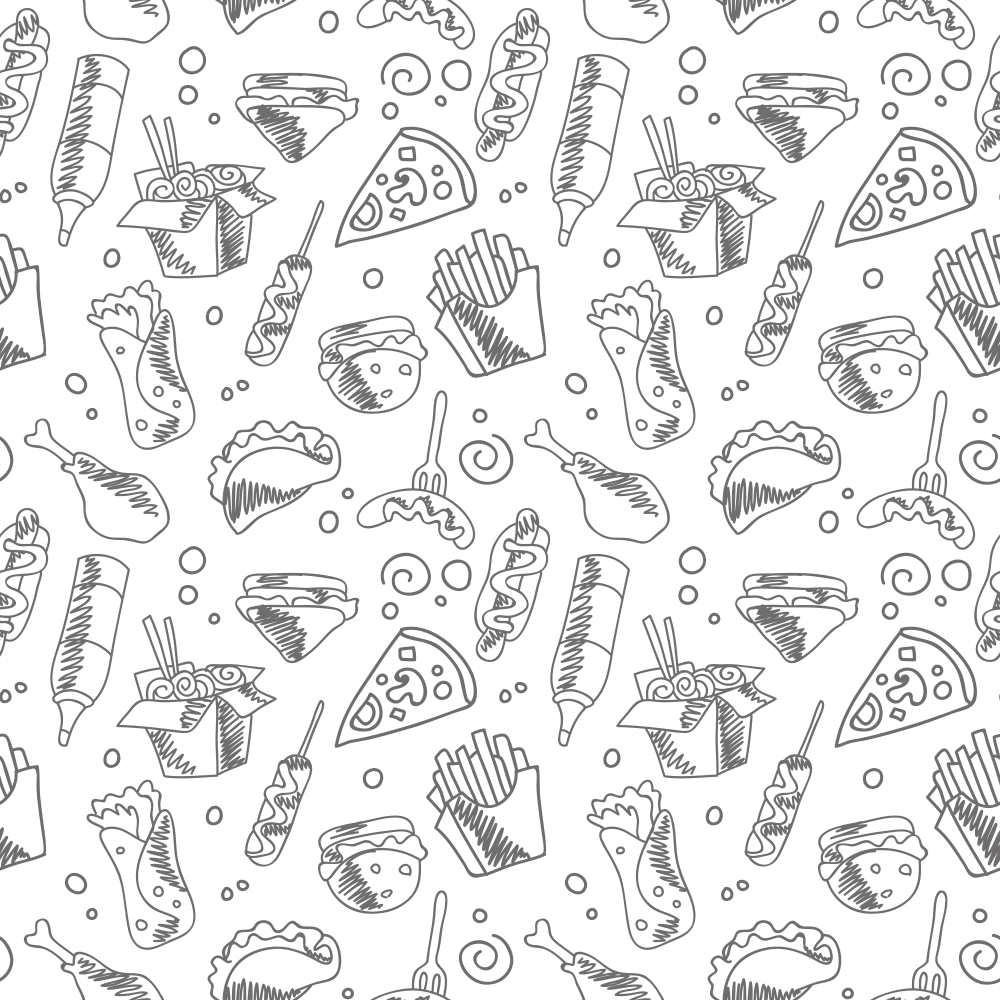
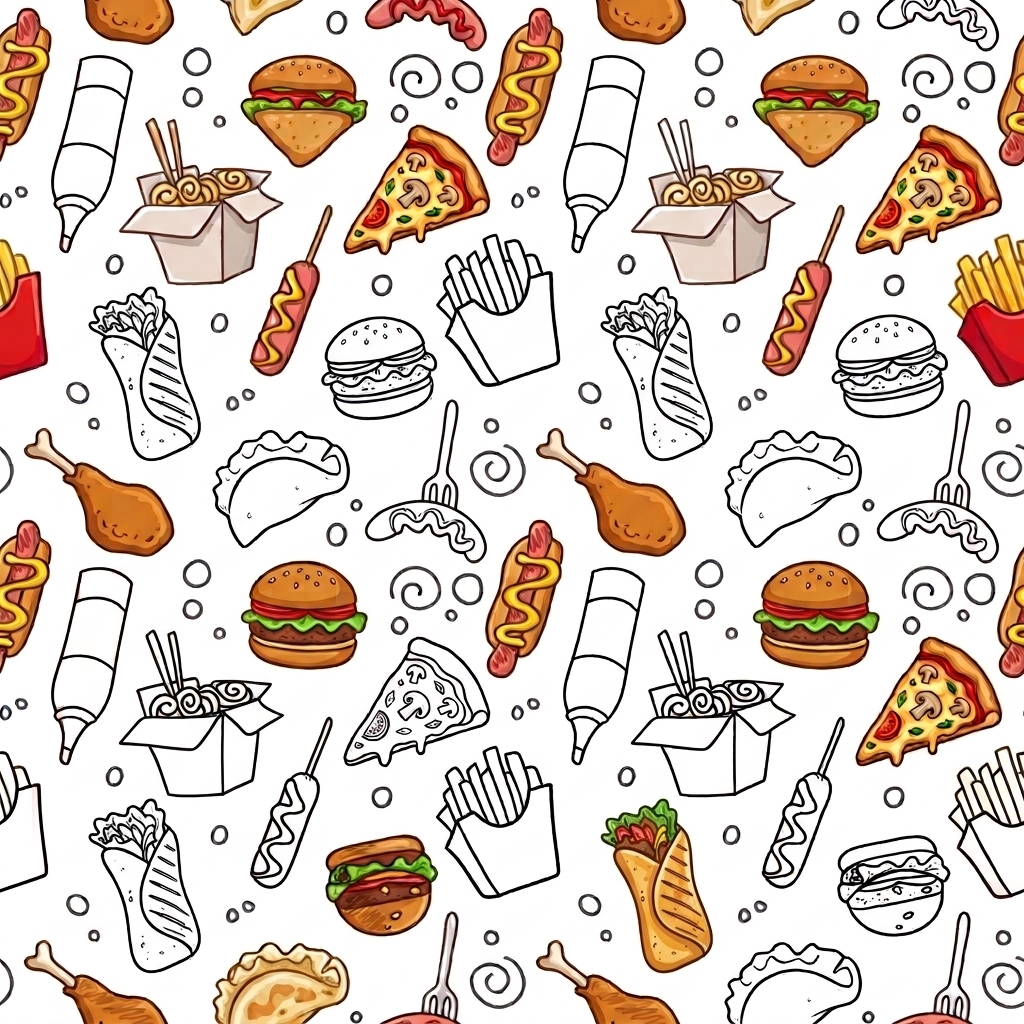
UX: details

diff --git a/src/features/explore/components/CardPlace.jsx b/src/features/explore/components/CardPlace.jsx
@@ -69,12 +69,12 @@ const CardPlace = ({ data, userLocation, loadBusinessMenu }) => {
           "&::before": { content: '""', position: "absolute", inset: 0, bgcolor: "rgba(35,31,28,.12)" },
         }}
       >
-        <Box sx={{ position: "relative", zIndex: 1, p: 1.2 }}>
+        <Box sx={{ position: "relative", zIndex: 1, p: .3 }}>
           <Box
             sx={{
               borderRadius: "8px",
               overflow: "hidden",
-              bgcolor: "rgba(254,253,251,.94)",
+              bgcolor: "rgba(254,253,251,.80)",
               border: "1px solid rgba(56,50,44,.12)",
               boxShadow: "0 1px 4px rgba(33,27,24,.05)",
             }}
@@ -82,7 +82,7 @@ const CardPlace = ({ data, userLocation, loadBusinessMenu }) => {
             <Box onClick={expandCard} sx={{ cursor: "pointer", px: 2, pt: 1.8, pb: 1.45 }}>
               <Stack direction="row" justifyContent="space-between" alignItems="flex-start" spacing={1.4}>
                 <Stack direction="row" spacing={1.25} alignItems="center" minWidth={0}>
-                  <Avatar src={logoUrl} sx={{ width: 52, height: 52, bgcolor: "background.paper", border: "1px solid rgba(0,0,0,.07)", boxShadow: "0 6px 16px rgba(0,0,0,.08)" }}>{business.name?.charAt(0)}</Avatar>
+                  <Avatar src={logoUrl} sx={{ width: 56, height: 56, bgcolor: "background.paper", border: "1px solid rgba(0,0,0,.07)", boxShadow: "0 6px 16px rgba(0,0,0,.08)" }}>{business.name?.charAt(0)}</Avatar>
                   <Box minWidth={0}>
                     <Typography noWrap sx={{ fontSize: "1.12rem", fontWeight: 700, lineHeight: 1.08, letterSpacing: "-.025em" }}>{business.name || "Negocio"}</Typography>
                     <Stack direction="row" spacing={.7} alignItems="center" sx={{ mt: .55, color: "text.secondary" }}>
@@ -91,24 +91,24 @@ const CardPlace = ({ data, userLocation, loadBusinessMenu }) => {
                   </Box>
                 </Stack>
                 <Stack direction="row" spacing={.65} alignItems="center">
-                  <Chip size="small" label={business.open ? "Abierto" : "Cerrado"} sx={{ height: 26, fontWeight: 600, fontSize: ".66rem", bgcolor: business.open ? "rgba(95,120,100,.11)" : "rgba(0,0,0,.07)", color: business.open ? "success.dark" : "text.secondary" }} />
-                  <IconButton size="small" onClick={(event) => { event.stopPropagation(); setScheduleOpen(true); }} sx={{ width: 30, height: 30, bgcolor: "rgba(255,255,255,.7)", border: "1px solid rgba(0,0,0,.05)" }}><AccessTimeRounded sx={{ fontSize: 16 }} /></IconButton>
+                  <Chip size="small" label={business.open ? "Abierto" : "Cerrado"} sx={{ height: 26, borderRadius:"15px" , fontWeight: 600, fontSize: ".66rem", bgcolor: business.open ? "rgba(95,120,100,.11)" : "rgba(0,0,0,.07)", color: business.open ? "success.dark" : "text.secondary" }} />
+                  <IconButton size="small" onClick={(event) => { event.stopPropagation(); setScheduleOpen(true); }} sx={{ width: 30, height: 30, bgcolor: "rgba(255,255,255,0)", border: "1px solid rgba(0,0,0,.05)" }}><AccessTimeRounded sx={{ fontSize: 16 }} /></IconButton>
                 </Stack>
               </Stack>
 
+             
+              <Stack direction="row" justifyContent="space-between" alignItems="center" sx={{ mt: 1.25 }}>
+                
               {(foodTags.length > 0 || distance || hasServiceTag) && (
                 <Stack direction="row" spacing={.65} flexWrap="wrap" useFlexGap sx={{ mt: 1.35 }}>
                   {foodTags.map((label) => (
-                  <Chip key={label} size="small" label={label} sx={{ height: 25, fontSize: ".67rem", fontWeight: 600, bgcolor: "rgba(198,90,80,.08)", color: "primary.dark", border: "1px solid rgba(198,90,80,.16)" }} />
+                  <Chip key={label} size="small" label={label} sx={{ height: 25, borderRadius:"15px", fontSize: ".67rem", fontWeight: 600, bgcolor: "rgba(198,90,80,.22)", color: "primary.dark", border: "1px solid rgba(198,90,80,.16)" }} />
                   ))}
-                  {distance && <Chip size="small" icon={<PlaceRounded />} label={distance} sx={{ height: 25, fontSize: ".67rem", fontWeight: 600, bgcolor: "rgba(102,115,106,.09)", color: "secondary.dark", border: "1px solid rgba(102,115,106,.18)", "& .MuiChip-icon": { color: "secondary.main" } }} />}
-                  {hasServiceTag && <Chip size="small" icon={<DeliveryDiningRounded />} label="Delivery" sx={{ height: 25, fontSize: ".67rem", fontWeight: 600, bgcolor: "rgba(198,90,80,.08)", color: "primary.dark", border: "1px solid rgba(198,90,80,.16)", "& .MuiChip-icon": { color: "primary.main" } }} />}
+                  {distance && <Chip size="small" icon={<PlaceRounded />} label={distance} sx={{ height: 25, borderRadius:"15px", fontSize: ".67rem", fontWeight: 600, bgcolor: "rgba(102,115,106,.22)", color: "secondary.dark", border: "1px solid rgba(102,115,106,.18)", "& .MuiChip-icon": { color: "secondary.main" } }} />}
+                  {hasServiceTag && <Chip size="small" icon={<DeliveryDiningRounded />} label="Delivery" sx={{ height: 25, borderRadius:"15px",  fontSize: ".67rem", fontWeight: 600, bgcolor: "rgba(198,90,80,.22)", color: "primary.dark", border: "1px solid rgba(198,90,80,.16)", "& .MuiChip-icon": { color: "primary.main" } }} />}
                 </Stack>
               )}
-
-              <Stack direction="row" justifyContent="space-between" alignItems="center" sx={{ mt: 1.25 }}>
-                <Typography variant="caption" color="text.secondary">Todo lo esencial, sin salir de la tarjeta</Typography>
-                <Stack direction="row" alignItems="center"><Typography variant="caption" fontWeight={600}>{expanded ? "Ocultar" : "Explorar"}</Typography><KeyboardArrowDownRounded sx={{ fontSize: 19, transform: expanded ? "rotate(180deg)" : "none", transition: ".2s" }} /></Stack>
+                <Stack direction="row" alignItems="center"><Typography variant="caption" fontWeight={600}>{expanded ? "" : ""}</Typography><KeyboardArrowDownRounded sx={{ fontSize: 19, transform: expanded ? "rotate(180deg)" : "none", transition: ".2s" }} /></Stack>
               </Stack>
             </Box>
 

diff --git a/src/app/navigation/Navbar.jsx b/src/app/navigation/Navbar.jsx
@@ -57,7 +57,7 @@ export default function Navbar() {
 
     // Todo usuario autenticado puede comprar, sin importar si también es owner.
     items.push({ title: "Mi pedido", icon: <ReceiptLong />, link: "orden", cartBadge: true });
-    items.push({ title: "Órdenes", icon: <ShoppingBag />, link: "mis-ordenes" });
+   // items.push({ title: "Órdenes", icon: <ShoppingBag />, link: "mis-ordenes" });
 
     // Owner es una capacidad adicional, no un rol excluyente del flujo cliente.
     if (owner) {
@@ -114,7 +114,6 @@ export default function Navbar() {
                   <Divider />
                   <MenuItem onClick={() => goFromMenu("/perfil")}><ListItemIcon><Person fontSize="small" /></ListItemIcon><ListItemText>Mi Perfil</ListItemText></MenuItem>
                   <MenuItem onClick={() => goFromMenu("/orden")}><ListItemIcon><ReceiptLong fontSize="small" /></ListItemIcon><ListItemText>Mi pedido</ListItemText></MenuItem>
-                  <MenuItem onClick={() => goFromMenu("/mis-ordenes")}><ListItemIcon><ShoppingBag fontSize="small" /></ListItemIcon><ListItemText>Mis Órdenes</ListItemText></MenuItem>
                   {owner && <MenuItem onClick={() => goFromMenu("/owner")}><ListItemIcon><Dashboard fontSize="small" /></ListItemIcon><ListItemText>Panel de Negocio</ListItemText></MenuItem>}
                   <Divider />
                   <MenuItem onClick={handleLogout} sx={{ color: "error.main" }}><ListItemIcon><Logout fontSize="small" color="error" /></ListItemIcon><ListItemText>Cerrar Sesión</ListItemText></MenuItem>

diff --git a/src/features/profile/components/ProfileActions.jsx b/src/features/profile/components/ProfileActions.jsx
@@ -8,8 +8,6 @@ export default function ProfileActions({ user, onNavigate, onLogoutRequest }) {
     <Paper elevation={0} sx={{ p: { xs: 2, sm: 3 }, borderRadius: "8px", border: "1px solid", borderColor: "divider" }}>
       <Typography variant="h6" sx={{ fontWeight: 600, mb: 2 }}>Acciones Rápidas</Typography>
       <Stack spacing={1.25}>
-        <Button variant="outlined" startIcon={<ShoppingBag />} fullWidth onClick={() => onNavigate("/mis-ordenes")} sx={{ justifyContent: "flex-start", py: 1.5 }}>Mis Órdenes</Button>
-
         {hasBusinessAccess ? (
           <Button variant="outlined" startIcon={<Store />} fullWidth onClick={() => onNavigate("/owner")} sx={{ justifyContent: "flex-start", py: 1.5 }}>Panel de Negocio</Button>
         ) : (
@@ -25,7 +23,7 @@ export default function ProfileActions({ user, onNavigate, onLogoutRequest }) {
           </Button>
         )}
 
-        <Button variant="outlined" startIcon={<GroupAdd />} fullWidth onClick={() => onNavigate("/business-invitations")} sx={{ justifyContent: "flex-start", py: 1.5 }}>Unirme con un código</Button>
+        <Button variant="outlined" startIcon={<GroupAdd />} fullWidth onClick={() => onNavigate("/business-invitations")} sx={{ justifyContent: "flex-start", py: 1.5 }}>Unirme con un código (Socio)</Button>
 
         <Button variant="outlined" color="error" startIcon={<Logout />} fullWidth onClick={onLogoutRequest} sx={{ justifyContent: "flex-start", py: 1.5 }}>Cerrar Sesión</Button>
       </Stack>

diff --git a/src/features/explore/components/CardPlaceFront.jsx b/src/features/explore/components/CardPlaceFront.jsx
@@ -10,9 +10,9 @@ import { StyledFront } from "./CardPlaceStyled";
 
 const ACTIONS = [
   { key: "menu", label: "Menú", helper: "Qué pedir", icon: RestaurantMenuRounded, color: "#8F3E38", tint: "rgba(198,90,80,.09)" },
-  { key: "location", label: "Llegar", helper: "Ubicación", icon: NearMeRounded, color: "#465048", tint: "rgba(102,115,106,.09)" },
+  { key: "location", label: "Llegar", helper: "Ubicación", icon: NearMeRounded, color: "#0d70e8", tint: "rgba(102,115,106,.09)" },
   { key: "photo", label: "Fotos", helper: "Conócelo", icon: PhotoLibraryRounded, color: "#465048", tint: "rgba(102,115,106,.09)" },
-  { key: "review", label: "Reseñas", helper: "Opiniones", icon: ReviewsRounded, color: "#8F3E38", tint: "rgba(198,90,80,.09)" },
+  { key: "review", label: "Reseñas", helper: "Opiniones", icon: ReviewsRounded, color: "#6935a4", tint: "rgba(198,90,80,.09)" },
 ];
 
 const CardPlaceFront = ({ flipped, onMovement, data }) => (
@@ -42,7 +42,7 @@ const CardPlaceFront = ({ flipped, onMovement, data }) => (
             },
           }}
         >
-          <Box sx={{ width: 34, height: 34, borderRadius: "8px", mr: 1.1, flexShrink: 0, display: "grid", placeItems: "center", bgcolor: tint, color }}>
+          <Box sx={{ width: 34, height: 34, borderRadius: "50%", mr: 1.1, flexShrink: 0, display: "grid", placeItems: "center", bgcolor: tint, color }}>
             <Icon sx={{ fontSize: 18 }} />
           </Box>
           <Box minWidth={0} flex={1}>

diff --git a/src/features/explore/pages/ExplorePage.jsx b/src/features/explore/pages/ExplorePage.jsx
@@ -42,7 +42,7 @@ export default function ExplorePage() {
                 variant="overline"
                 sx={{ color: "rgba(255,255,255,.78)", letterSpacing: ".18em", fontWeight: 700 }}
               >
-                Kcomer · Explora cerca de ti
+                
               </Typography>
               <Typography
                 component="h1"
@@ -67,7 +67,7 @@ export default function ExplorePage() {
                   lineHeight: 1.55,
                 }}
               >
-                Negocios locales, menús reales y todo lo que necesitas para elegir sin complicarte.
+                Negocios locales y todo lo que necesitas para elegir sin complicarte.
               </Typography>
               <Box sx={{ pt: 1.5 }}>
                 <Stack direction="row" spacing={2} alignItems="center">
@@ -99,6 +99,7 @@ export default function ExplorePage() {
                       sx={{
                         width: 48,
                         height: 48,
+                        borderRadius: "50% !important",
                         bgcolor: "common.white",
                         color: "#282828",
                         boxShadow: "0 2px 8px rgba(0,0,0,.14)",

diff --git a/src/features/about/pages/AboutPage.jsx b/src/features/about/pages/AboutPage.jsx
@@ -3,7 +3,7 @@ import GeneralContent from "@Shared/components/layout/GeneralContent";
 import Bg from "@Assets/images/qscome-bg-6.png";
 import Bg4 from "@Assets/images/qsome-bg-4.jpg";
 
-const NAME_PAGE = "qsCome";
+const NAME_PAGE = "QSCOME";
 const ABOUT_SPOT =
   "¡Bienvenido!, el lugar donde los antojos se encuentran con los mejores spots de comida. Aquí vienes a descubrir, disfrutar y compartir lo que más nos une: ¡comer rico!";
 
@@ -15,9 +15,9 @@ const AboutPage = () => {
         className="hero"
         sx={{
           textAlign: "center",
-          backgroundImage: `linear-gradient(to bottom, rgba(0,0,0,.78), rgba(0,0,0,0)), url(${Bg4})`,
+          backgroundImage: `linear-gradient(to bottom, rgba(0,0,0,.82), rgba(0,0,0,.82)), url(${Bg4})`,
           backgroundSize: "cover",
-          backgroundPosition: "center",
+          backgroundPosition: "top",
           backgroundRepeat: "no-repeat",
           "& .logo": { margin: 0 },
         }}

diff --git a/src/features/owner/components/registration/ScheduleDayRow.jsx b/src/features/owner/components/registration/ScheduleDayRow.jsx
@@ -10,10 +10,10 @@ const ScheduleDayRow = ({ day, isToday, onOpenChange, onTimeChange }) => (
     sx={{
       px: { xs: 0.5, sm: 1 },
       py: 1.35,
-      borderBottom: "1px solid",
+      borderBottom: "0px solid",
       borderLeft: isToday ? "3px solid" : "3px solid transparent",
-      borderColor: isToday ? "primary.main" : "divider",
-      bgcolor: isToday ? "rgba(198,90,80,.035)" : "background.paper",
+      borderColor: isToday ? "green" : "divider",
+      bgcolor: isToday ? "rgba(41, 249, 65, 0.03)" : "background.paper",
     }}
   >
     <Stack
@@ -69,11 +69,6 @@ const ScheduleDayRow = ({ day, isToday, onOpenChange, onTimeChange }) => (
         </Stack>
       )}
 
-      {!day.isClosed && (
-        <ScheduleIcon
-          sx={{ display: { xs: "none", md: "block" }, color: "text.disabled", fontSize: 20 }}
-        />
-      )}
     </Stack>
   </Box>
 );

diff --git a/src/features/owner/components/menu/OwnerMenuCatalog.jsx b/src/features/owner/components/menu/OwnerMenuCatalog.jsx
@@ -83,7 +83,7 @@ const DesktopMenuTable = ({ items, onCustomize, onEdit, onDelete, onToggle }) =>
                 </Box>
               </Stack>
             </TableCell>
-            <TableCell>{item.category && <Chip label={item.category} size="small" variant="outlined" sx={{ borderRadius: "6px" }} />}</TableCell>
+            <TableCell>{item.category && <Chip label={item.category} size="small" variant="outlined" sx={{ borderRadius: "15px" }} />}</TableCell>
             <TableCell align="right"><Typography fontWeight={600}>${item.price.toFixed(2)}</Typography></TableCell>
             <TableCell align="center"><AvailabilityControl item={item} onToggle={onToggle} /></TableCell>
             <TableCell align="right"><MenuItemActions item={item} onCustomize={onCustomize} onEdit={onEdit} onDelete={onDelete} /></TableCell>

diff --git a/src/features/owner/components/menu/MenuItemActions.jsx b/src/features/owner/components/menu/MenuItemActions.jsx
@@ -3,7 +3,7 @@ import { Button, IconButton, Stack, Tooltip } from "@mui/material";
 import { Delete, Edit, TuneRounded } from "@mui/icons-material";
 
 const MenuItemActions = ({ item, onCustomize, onEdit, onDelete }) => (
-  <Stack direction="row" spacing={0.5} justifyContent="flex-end" flexWrap="wrap" useFlexGap>
+  <Stack direction="row" spacing={0} justifyContent="flex-end" flexWrap="wrap" useFlexGap>
     <Tooltip title="Personalización">
       <Button
         size="small"
@@ -13,7 +13,6 @@ const MenuItemActions = ({ item, onCustomize, onEdit, onDelete }) => (
         onClick={() => onCustomize(item)}
         sx={{ textTransform: "none", borderRadius: "8px", whiteSpace: "nowrap" }}
       >
-        Ingredientes y opciones
       </Button>
     </Tooltip>
     <Tooltip title="Editar platillo">

diff --git a/src/features/owner/components/orders/OwnerOrdersToolbar.jsx b/src/features/owner/components/orders/OwnerOrdersToolbar.jsx
@@ -21,7 +21,7 @@ const OwnerOrdersToolbar = ({
     sx={{ mb: 1 }}
   >
     <Box sx={{ flex: 1 }}>
-      {viewMode === "list" && (
+      {/* {viewMode === "list" && (
         <OrderFilters
           filterStatus={filterStatus}
           onFilterChange={onFilterChange}
@@ -29,7 +29,7 @@ const OwnerOrdersToolbar = ({
           onRefresh={onRefresh}
           loading={loading}
         />
-      )}
+      )} */}
     </Box>
     <ButtonGroup
       size="small"
@@ -52,7 +52,7 @@ const OwnerOrdersToolbar = ({
           onClick={() => onViewModeChange("production")}
           sx={{ textTransform: "none" }}
         >
-          Producción
+          Preparación
         </Button>
       )}
     </ButtonGroup>

diff --git a/src/features/owner/components/settings/LocationSettingsTab.jsx b/src/features/owner/components/settings/LocationSettingsTab.jsx
@@ -92,7 +92,7 @@ export default function LocationSettingsTab({ locationInfo, setLocationInfo, onS
             </Stack>
           </Box>
 
-          <Box sx={{ px: 1.5, py: 1.35, borderRadius: "8px", bgcolor: "rgba(95,120,100,.07)", borderLeft: "3px solid", borderColor: "success.main" }}>
+          <Box sx={{ px: 1.5, py: 1.35, borderRadius: "0px", bgcolor: "rgba(95,120,100,.07)", borderLeft: "3px solid", borderColor: "success.main" }}>
             <Typography variant="caption" color="text.secondary">Coordenadas</Typography>
             <Typography variant="body2" fontWeight={600} sx={{ mt: .35 }}>
               {locationInfo.latitude && locationInfo.longitude

diff --git a/src/features/owner/components/registration/BusinessRegistrationWizard.jsx b/src/features/owner/components/registration/BusinessRegistrationWizard.jsx
@@ -65,8 +65,8 @@ const BusinessRegistrationWizard = ({
               borderRadius: "8px",
               display: "grid",
               placeItems: "center",
-              bgcolor: "rgba(198,90,80,.16)",
-              color: "#E6A39D",
+              bgcolor: "rgba(240, 238, 238, 0.16)",
+           
             }}
           >
             <StorefrontRounded />
